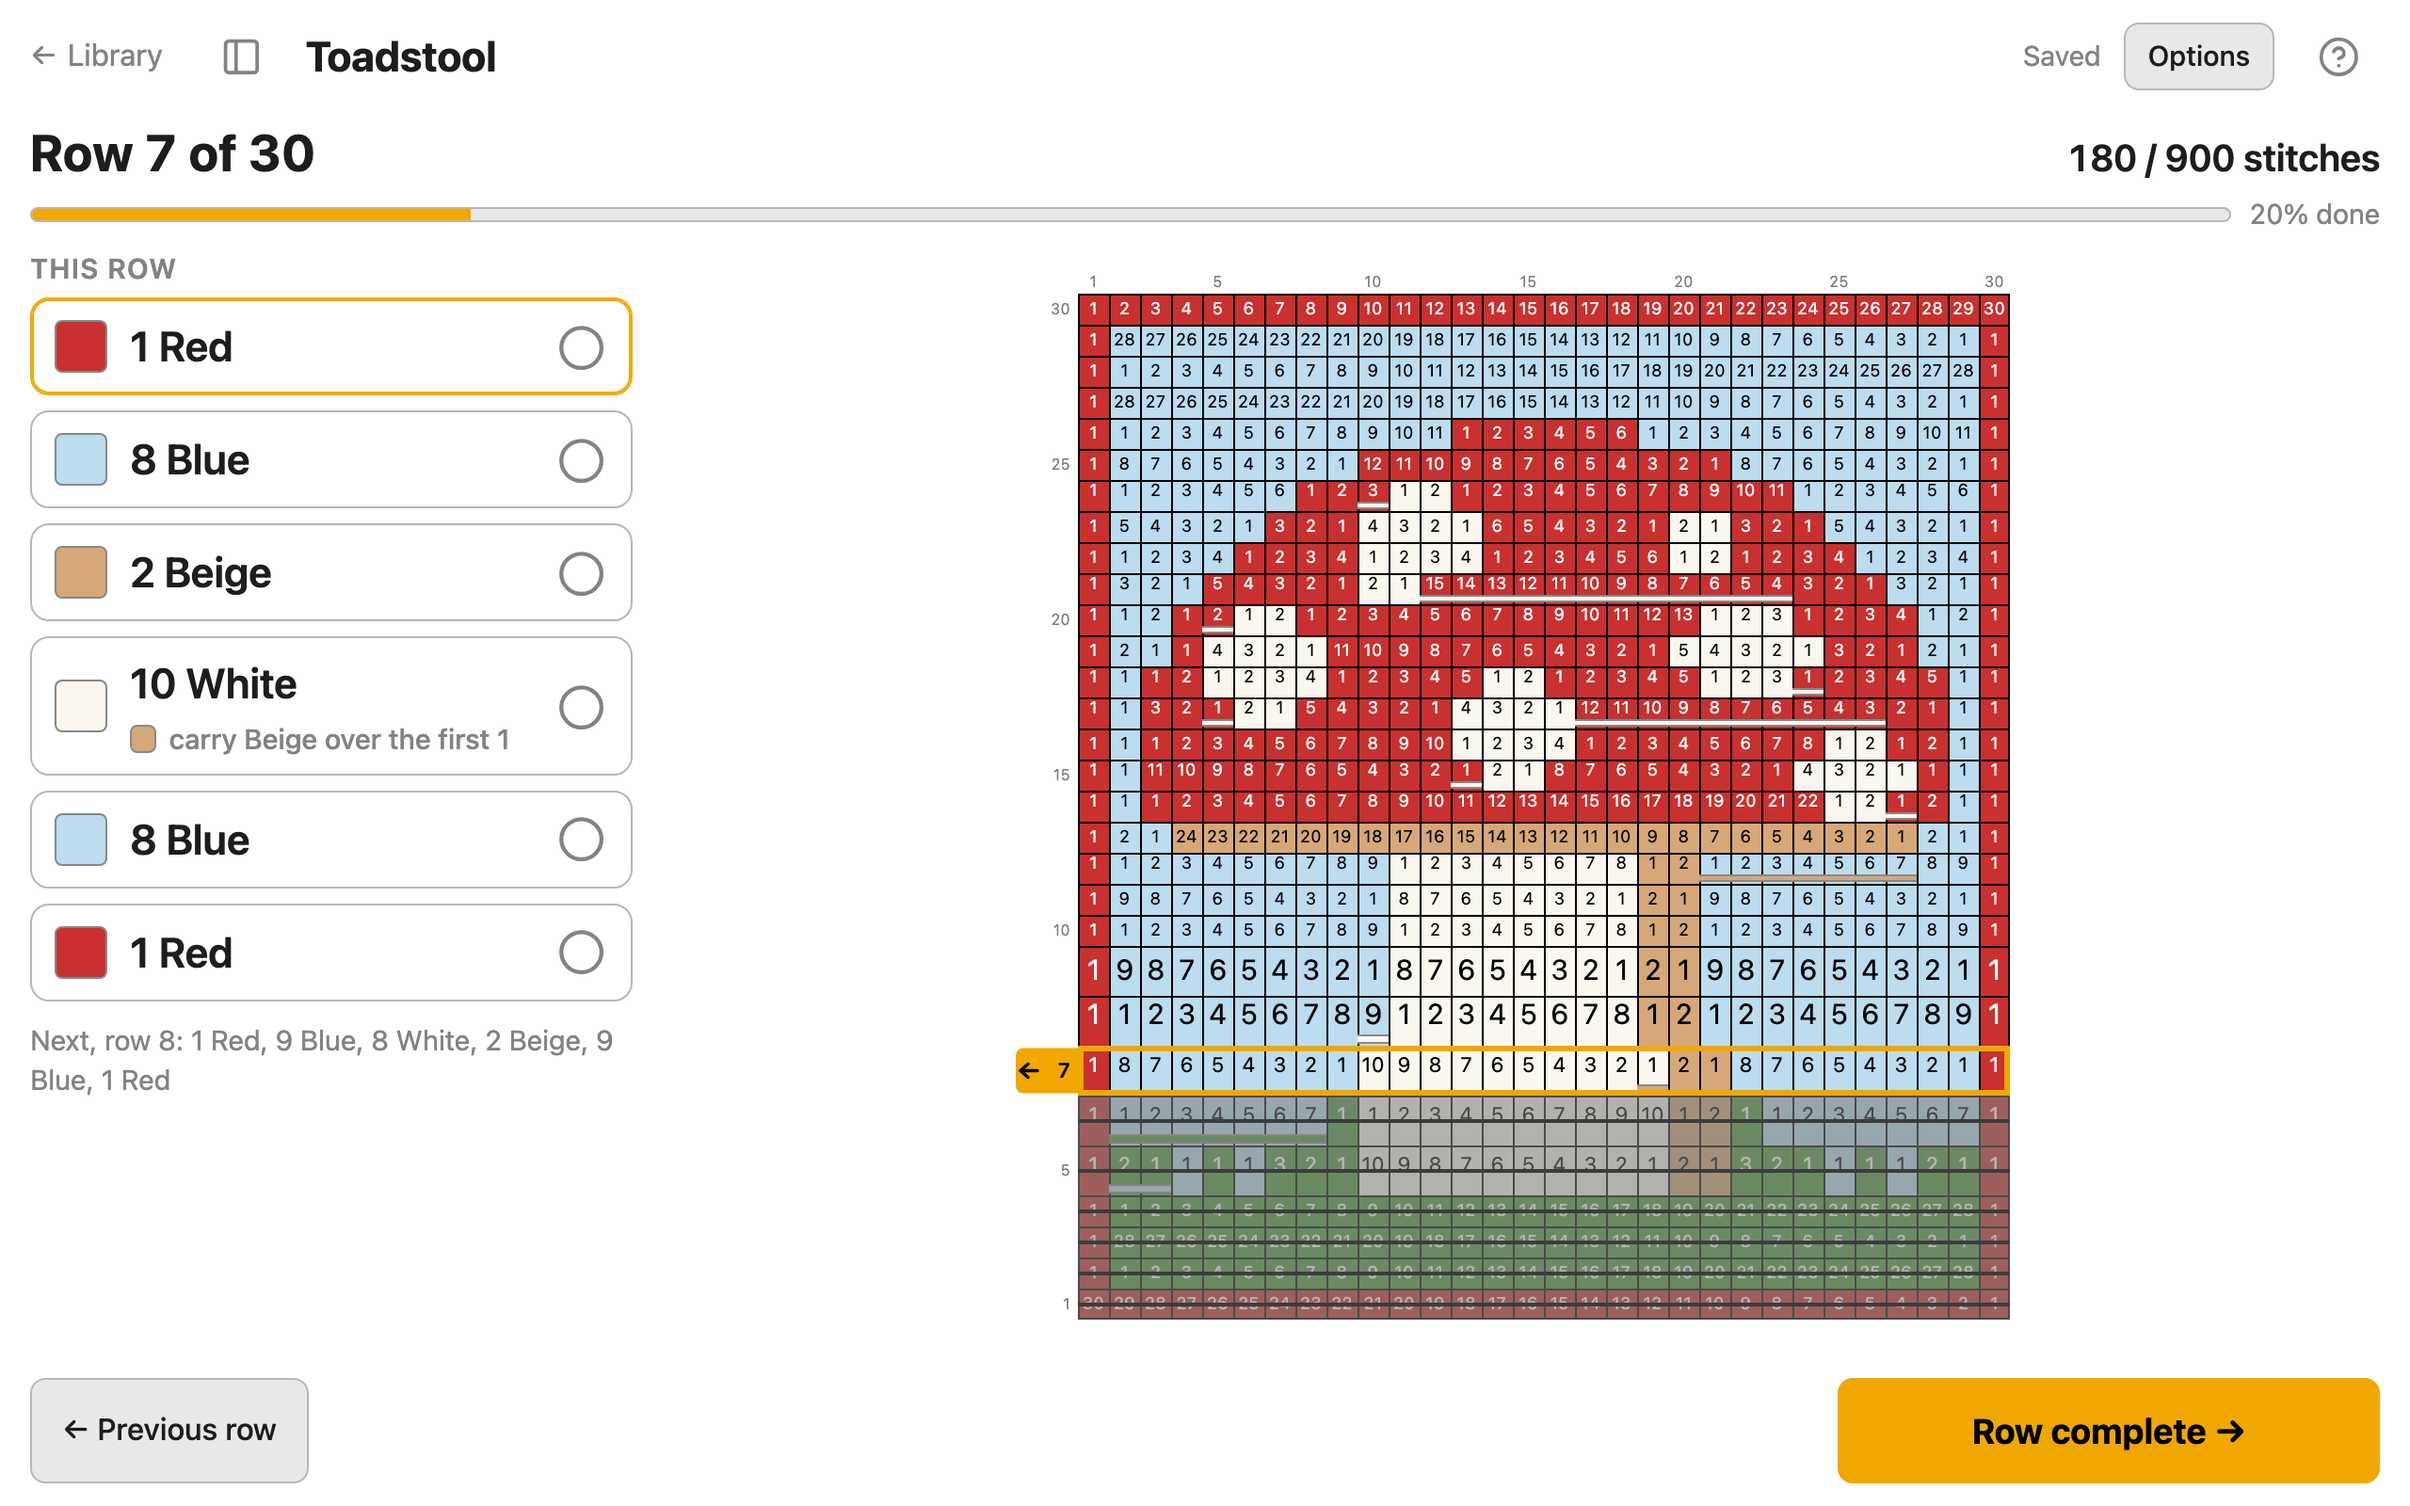
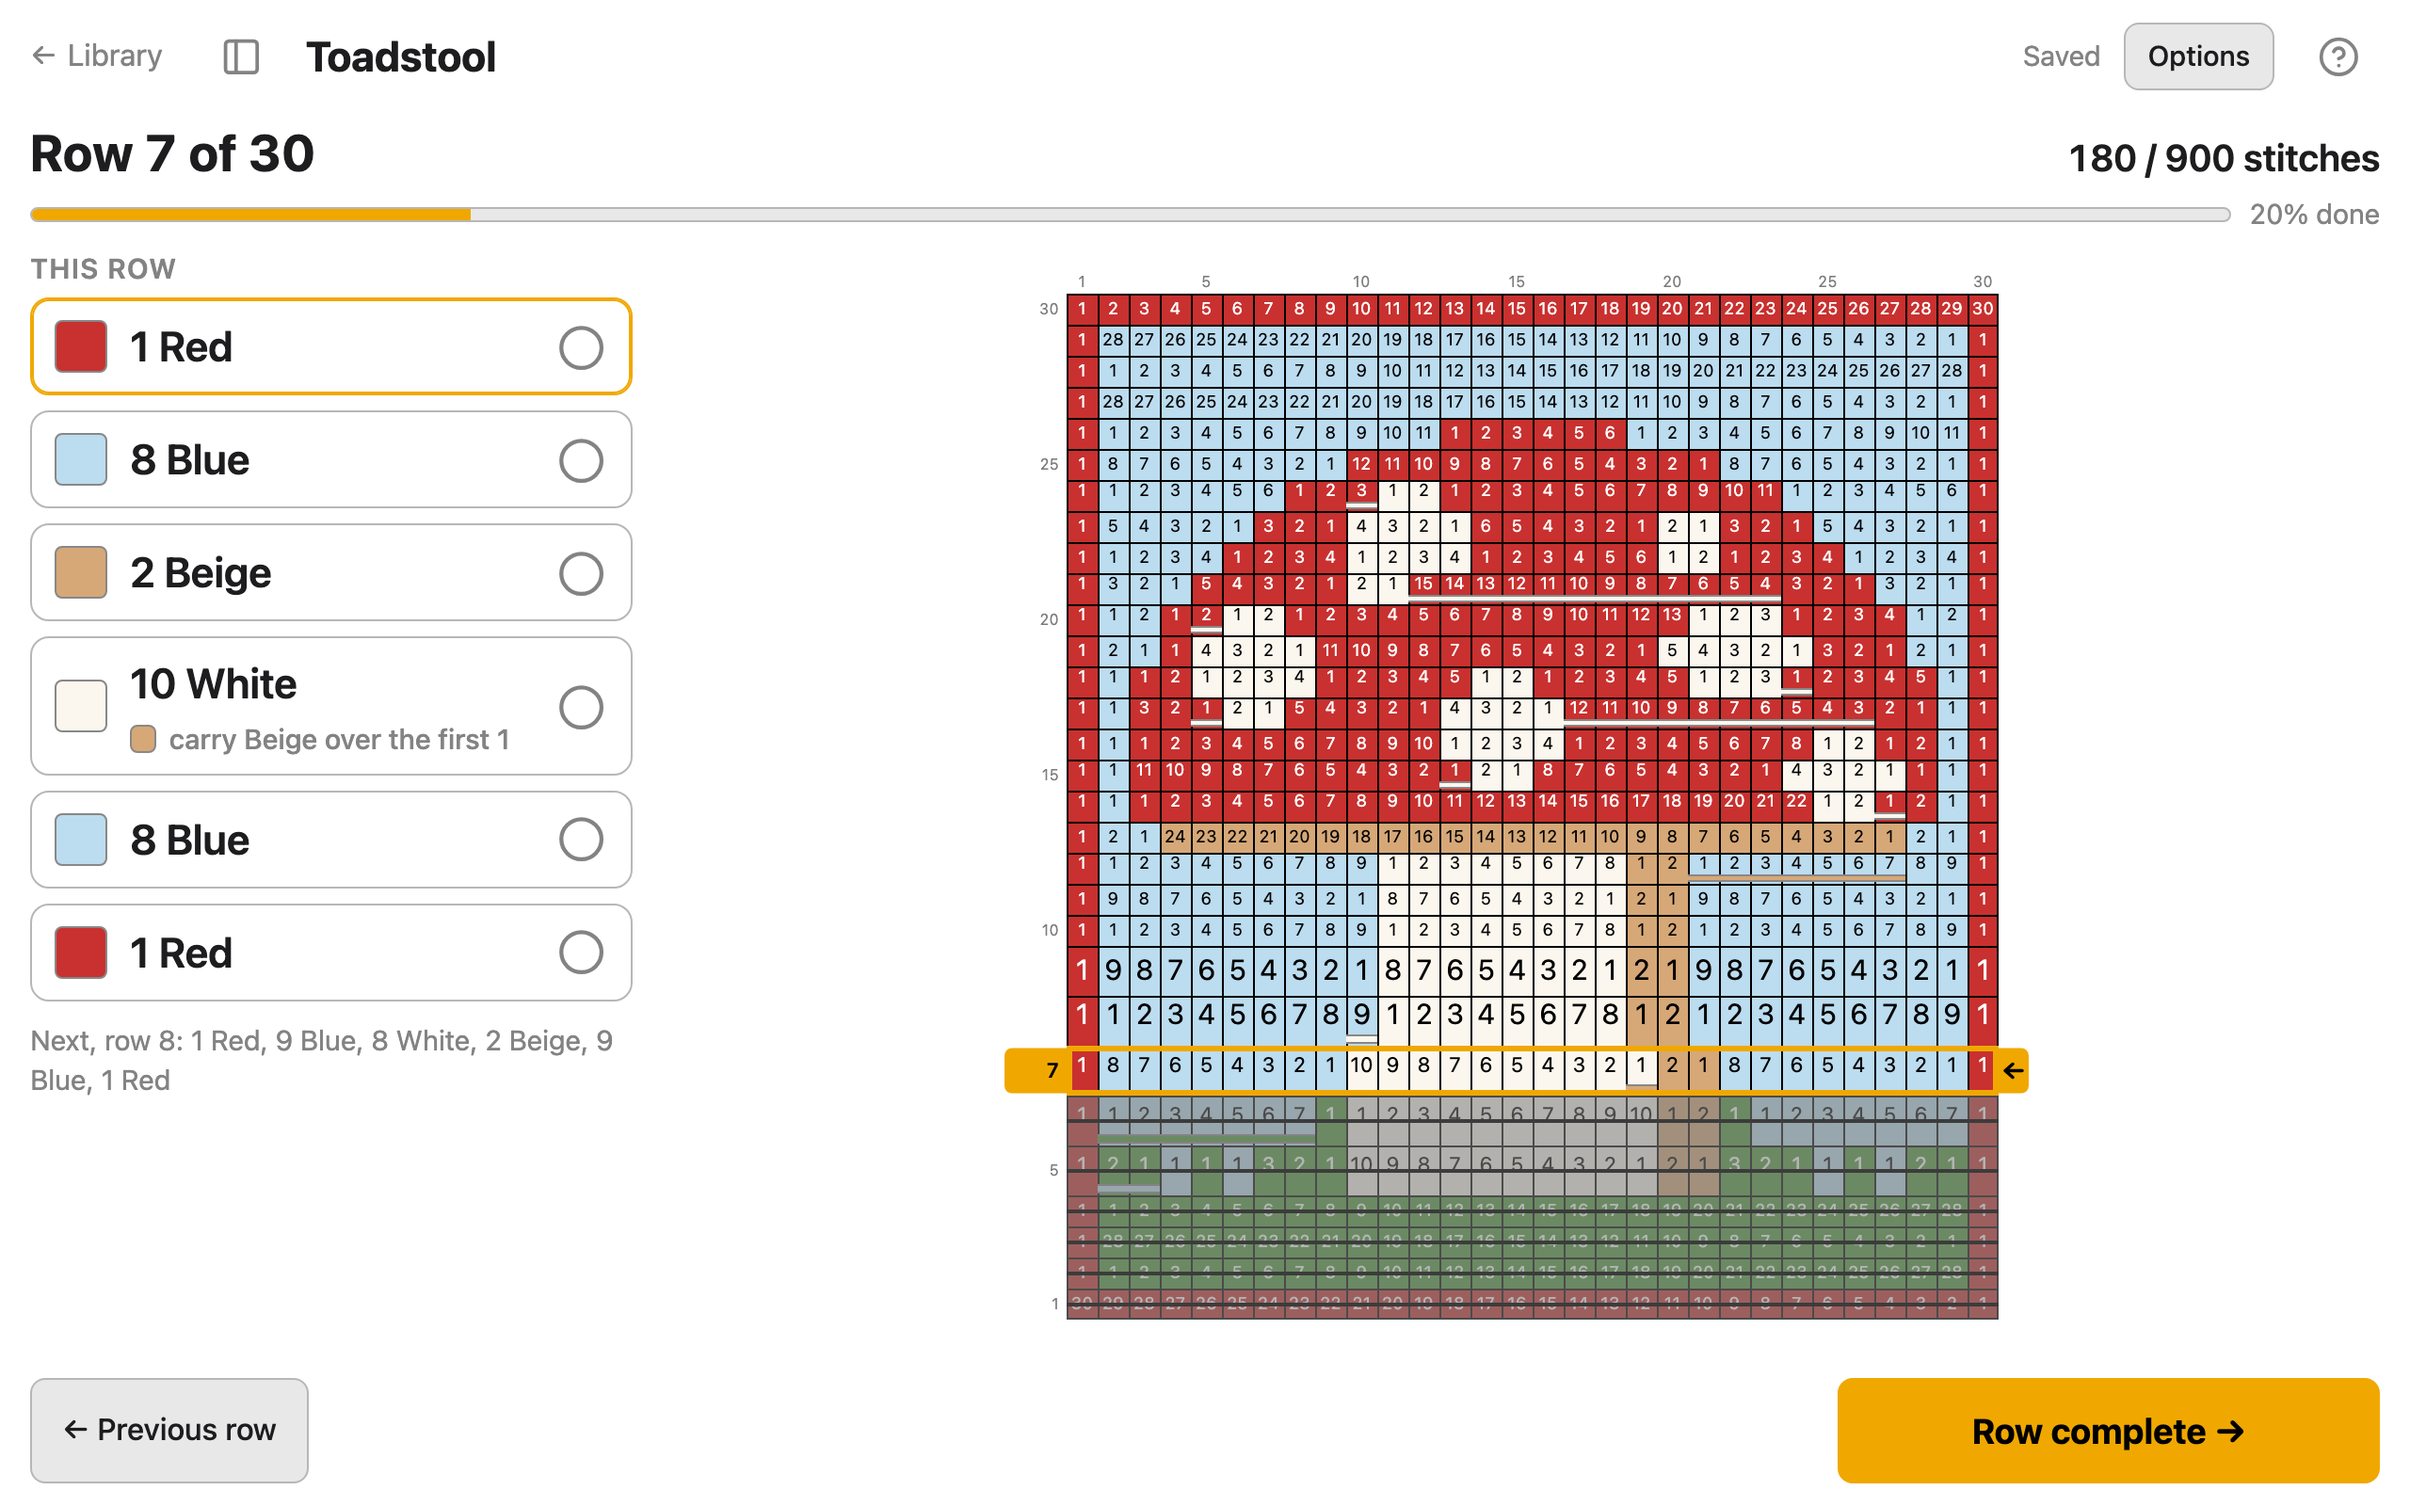
Docs: the start-side row arrow in the guide, screenshots and area note

Changed region(s): [[0.4062, 0.1875, 0.8438, 0.875]]

diff --git a/docs/guide/work.md b/docs/guide/work.md
@@ -7,7 +7,7 @@ Your place is saved as you go; there's no Save button. It follows tapestry croch
 you [choose another craft](#choose-your-craft).
 
 <p>
-  <img src="media/work.png" alt="The Work screen: Row 7 of 30, the current row as colour chips (1 Red, 8 Blue, 2 Beige, 10 White…), the chart with the current row outlined, an arrow pointing left in a tab beside it, and finished rows greyed, and a Row complete button" width="600">
+  <img src="media/work.png" alt="The Work screen: Row 7 of 30, the current row as colour chips (1 Red, 8 Blue, 2 Beige, 10 White…), the chart with the current row outlined, its number in a tab on the left, an arrow pointing left in a tab on the right where the row starts, and finished rows greyed, and a Row complete button" width="600">
   <img src="media/work-phone.png" alt="The Work screen on a phone" width="190">
 </p>
 
@@ -15,9 +15,10 @@ you [choose another craft](#choose-your-craft).
 
 - **Row 7 of 30** is the row you're on. Beside it, how many stitches you've done out of
   the whole pattern, and a bar with the percentage (on a phone, the bar alone).
-- The **orange tab** to the left of the current row on the chart has the row's number and
-  the way you work it: ← right to left, → left to right. It stays beside the row when you
-  zoom in or scroll across.
+- The **orange tabs** beside the current row on the chart show its number, on the left,
+  and an arrow on the side you start the row from, pointing the way you work it: → at the
+  left of the row, ← at the right. They stay beside the row when you zoom in or scroll
+  across.
 - **This row** lists the row's colours in the order you work them: "1 Red", then "8 Blue",
   and so on. The colour you're on is outlined. On a phone it's right under the chart,
   without the heading, and the chart takes all the room it can use: the list gets the

diff --git a/docs/dev/areas/work.md b/docs/dev/areas/work.md
@@ -297,11 +297,16 @@ Newest last, as they were built.
 - <a id="row-tab"></a>**The way a row is worked is on the chart, beside the row**
   (`drawChart` in `render/chart.ts`). The arrow used to follow "Row 7 of 30" in the status
   line, well away from the row it described. Now the current row's number sits in a small
-  accent-coloured tab in the row-number margin, joined to the row's outline, with a line
-  arrow beside the number. The header keeps the direction for screen readers.
-  - In the margin because nothing else is there: it never scrolls (so the tab stays by
-    the row at any zoom), it can't cover a stitch, and taps there do nothing. `AXIS_LEFT`
+  accent-coloured tab in the row-number margin, joined to the row's outline, and a line
+  arrow marks the side the row starts from, pointing into the row: in that same tab for
+  a row worked left to right, in a tab of its own right of the grid otherwise. The header
+  keeps the direction for screen readers.
+  - In the margins because nothing else is there: they never scroll (so the tabs stay by
+    the row at any zoom), they can't cover a stitch, and taps there do nothing. `AXIS_LEFT`
     stays 34 px, since Design shares it.
+  - The right-hand tab needs `WORK_END_GUTTER` (12 px), on top of `PAD`, taken from the
+    Work chart's width only (`endGutter` in `layout.ts`; Design and PNG exports have
+    none). A zoomed chart is clipped at the gutter and taps there find no stitch.
   - A tab, not a bare arrow: amber on the page is too faint for a 9 px arrow glanced at
     while working; black on amber isn't, in light or dark.
   - The tab is the row's height, from 16 to 24 px. It stays on the grid at the first and
